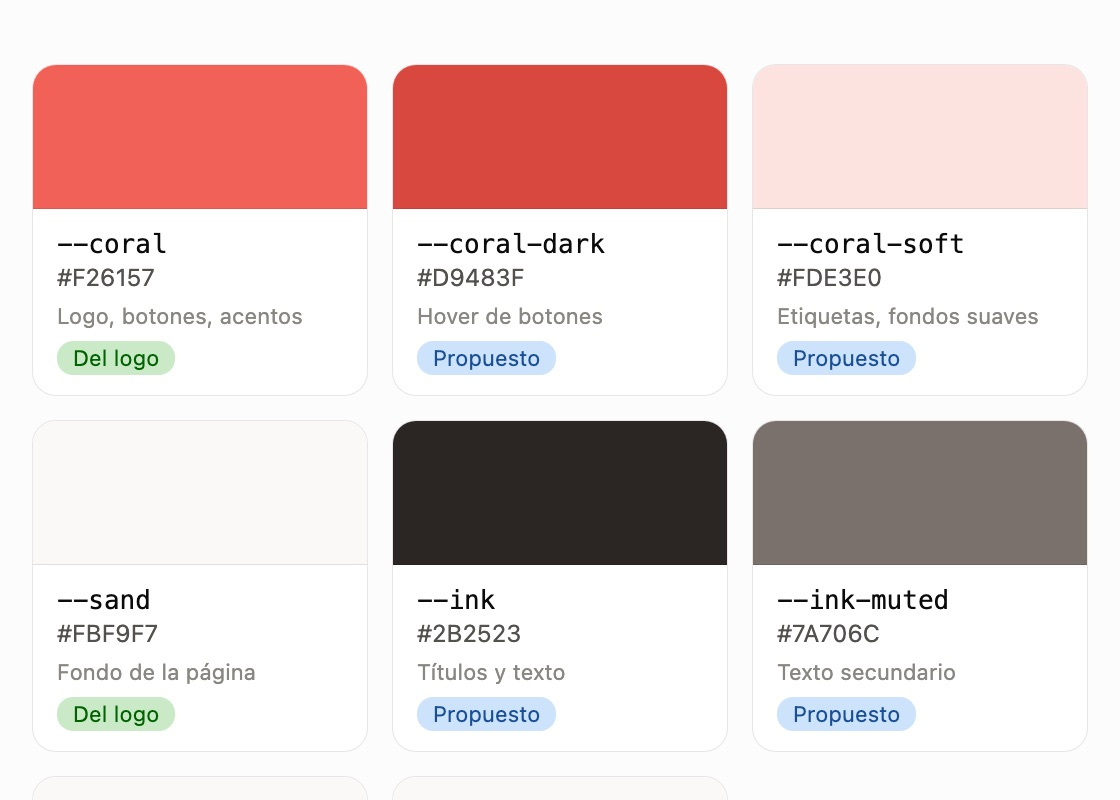
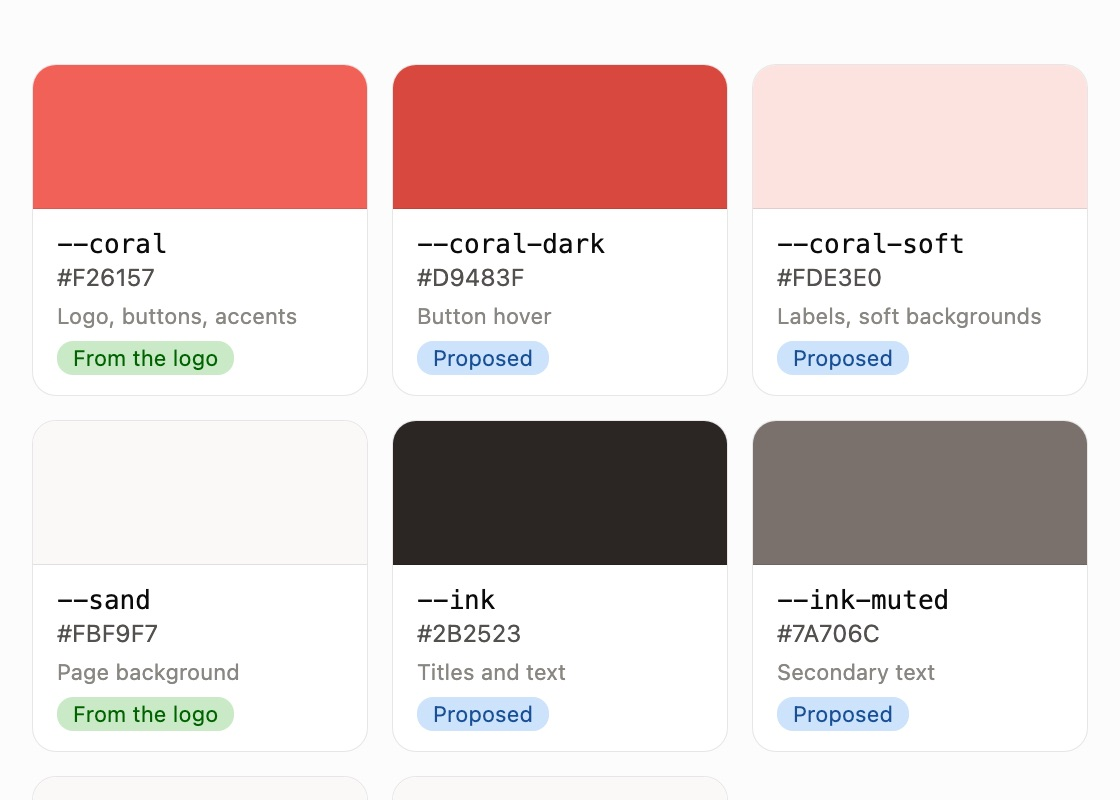
Translate all Spanish copy to English
- Page: meta description, html lang, aria-labels, alt texts, expertise cards,
  placeholder case study, metrics, journal intro and links, CTA button
- Images: regenerate the three component library sheets and the Stay Scout
  tokens thumbnail from translated sources (same dimensions)

diff --git a/index.html b/index.html
@@ -1,22 +1,22 @@
 <!DOCTYPE html>
-<html lang="es">
+<html lang="en">
 <head>
   <meta charset="UTF-8" />
   <meta name="viewport" content="width=device-width, initial-scale=1.0" />
-  <meta name="description" content="Portfolio de Carolina Conte — Product Designer & Design Engineer. Diseño de producto e ingeniería de interfaz." />
+  <meta name="description" content="Portfolio of Carolina Conte — Product Designer & Design Engineer. Product design and interface engineering." />
   <title>Carolina Conte — Product Designer & Design Engineer</title>
 
   <link rel="preconnect" href="https://fonts.googleapis.com">
   <link rel="preconnect" href="https://fonts.gstatic.com" crossorigin>
   <link href="https://fonts.googleapis.com/css2?family=Fraunces:ital,wght@0,400;0,500;0,600;1,400;1,500&family=Inter:wght@400;500;600;700&family=JetBrains+Mono:wght@400;500;600&display=swap" rel="stylesheet">
 
-  <link rel="stylesheet" href="styles.css?v=34" />
+  <link rel="stylesheet" href="styles.css?v=35" />
 </head>
 <body>
   <header class="site-header">
     <a class="brand" href="#home">CAROLINA<span>.</span>CONTE</a>
 
-    <button class="menu-toggle" aria-label="Abrir menú" aria-expanded="false">
+    <button class="menu-toggle" aria-label="Open menu" aria-expanded="false">
       <span></span><span></span><span></span>
     </button>
 
@@ -43,7 +43,7 @@
         <div class="hero-scrim"></div>
       </div>
 
-      <button class="hero-play" type="button" aria-label="Reproducir mensaje de bienvenida">
+      <button class="hero-play" type="button" aria-label="Play welcome message">
         <span class="hero-play-icon">▶</span>
         <span class="hero-play-label">Play with sound</span>
       </button>
@@ -62,7 +62,7 @@
 
         <div class="hero-actions">
           <a class="button button-dark" href="#work">See what I've built</a>
-          <a class="button button-light" href="#contact">Trabajemos juntas</a>
+          <a class="button button-light" href="#contact">Let's work together</a>
         </div>
       </div>
 
@@ -100,7 +100,7 @@
           <a class="cv-link" href="assets/carolina-conte-cv.pdf" target="_blank" rel="noopener">Download CV ↓</a>
         </div>
         <div class="about-portrait">
-          <img src="assets/about-collage.png" alt="Carolina Conte — collage de estudio" />
+          <img src="assets/about-collage.png" alt="Carolina Conte — studio collage" />
         </div>
       </article>
 
@@ -111,19 +111,19 @@
         <div class="service-grid">
           <div class="service-card">
             <h3>Product Design</h3>
-            <p>UX research, wireframes, UI de alta fidelidad y sistemas de diseño escalables para producto digital.</p>
+            <p>UX research, wireframes, high-fidelity UI, and scalable design systems for digital products.</p>
           </div>
           <div class="service-card">
             <h3>Design Engineering</h3>
-            <p>Implementación de interfaces en código: componentes, animaciones y prototipos funcionales listos para producción.</p>
+            <p>Building interfaces in code: components, animations, and working prototypes ready for production.</p>
           </div>
           <div class="service-card">
             <h3>Brand Systems</h3>
-            <p>Identidad visual, dirección de arte y mensaje llevados a experiencias digitales coherentes.</p>
+            <p>Visual identity, art direction, and messaging carried into coherent digital experiences.</p>
           </div>
           <div class="service-card">
             <h3>AI-assisted Workflows</h3>
-            <p>Prototipado, investigación y desarrollo asistidos por IA para pasar de la idea a algo funcional más rápido.</p>
+            <p>Prototyping, research, and development assisted by AI to get from idea to something working faster.</p>
           </div>
         </div>
       </article>
@@ -289,7 +289,7 @@
           <p class="section-kicker">SELECTED WORK</p>
           <h2><span>Recent</span> PROJECTS</h2>
         </div>
-        <p>Proyectos de producto y sistemas de diseño — placeholders listos para reemplazar con casos reales.</p>
+        <p>Product and design system projects — placeholders ready to be replaced with real case studies.</p>
       </div>
 
       <div class="project-spotlight">
@@ -351,13 +351,13 @@
         <p class="section-kicker">CASE STUDY 01</p>
         <h2><span>Project</span> NAME</h2>
         <p>
-          Rediseño end-to-end de un producto digital: research, sistema de diseño,
-          prototipado de alta fidelidad e implementación del front-end en producción.
+          End-to-end redesign of a digital product: research, design system,
+          high-fidelity prototyping, and front-end implementation in production.
         </p>
 
         <div class="case-stats">
-          <div><strong>+40%</strong><span>conversión</span></div>
-          <div><strong>−60%</strong><span>tiempo de dev</span></div>
+          <div><strong>+40%</strong><span>conversion</span></div>
+          <div><strong>−60%</strong><span>dev time</span></div>
           <div><strong>98</strong><span>lighthouse score</span></div>
         </div>
       </div>
@@ -377,26 +377,26 @@
       </div>
 
       <div class="masonry">
-        <button class="tile tile-gallery" type="button" data-gallery="component-library" aria-haspopup="dialog" aria-label="Abrir component library">
+        <button class="tile tile-gallery" type="button" data-gallery="component-library" aria-haspopup="dialog" aria-label="Open component library">
           <img class="is-on" src="assets/ui/component-library-carolina-conte.png" alt="Carolina Conte portfolio component library" loading="lazy" />
           <img src="assets/ui/component-library-market-open-media.png" alt="Market Open Media component library" loading="lazy" />
           <img src="assets/ui/component-library-stay-scout.png" alt="Stay Scout component library" loading="lazy" />
           <span class="tile-label">component library</span>
         </button>
         <div class="tile">onboarding<br>flow</div>
-        <button class="tile tile-gallery tile-dashboard" type="button" data-gallery="dashboard-ui" aria-haspopup="dialog" aria-label="Abrir dashboard UI">
-          <img class="is-on" src="assets/ui/dashboard-ui-thumb.jpg" alt="Jarvis, dashboard de briefing diario" loading="lazy" />
+        <button class="tile tile-gallery tile-dashboard" type="button" data-gallery="dashboard-ui" aria-haspopup="dialog" aria-label="Open dashboard UI">
+          <img class="is-on" src="assets/ui/dashboard-ui-thumb.jpg" alt="Jarvis, daily briefing dashboard" loading="lazy" />
           <span class="tile-label">dashboard UI</span>
         </button>
-        <button class="tile tile-gallery tile-tokens" type="button" data-gallery="design-tokens" aria-haspopup="dialog" aria-label="Abrir design tokens">
-          <img class="is-on" src="assets/ui/design-tokens-carolina-thumb.jpg" alt="Carolina Conte design tokens: rampas de color paper, ink, ember y brand" loading="lazy" />
-          <img src="assets/ui/design-tokens-thumb.jpg" alt="Stay Scout design tokens: colores, tipografía y radio" loading="lazy" />
+        <button class="tile tile-gallery tile-tokens" type="button" data-gallery="design-tokens" aria-haspopup="dialog" aria-label="Open design tokens">
+          <img class="is-on" src="assets/ui/design-tokens-carolina-thumb.jpg" alt="Carolina Conte design tokens: paper, ink, ember, and brand color ramps" loading="lazy" />
+          <img src="assets/ui/design-tokens-thumb.jpg" alt="Stay Scout design tokens: colors, typography, and radius" loading="lazy" />
           <span class="tile-label">design tokens</span>
         </button>
         <div class="tile">mobile<br>navigation</div>
         <div class="tile">motion<br>study</div>
-        <button class="tile tile-gallery tile-landing" type="button" data-gallery="landing-page" aria-haspopup="dialog" aria-label="Abrir landing page">
-          <img class="is-on" src="assets/ui/landing-page-thumb.jpg" alt="Landing page de Market Open Media: Free 7-day ranking trial" loading="lazy" />
+        <button class="tile tile-gallery tile-landing" type="button" data-gallery="landing-page" aria-haspopup="dialog" aria-label="Open landing page">
+          <img class="is-on" src="assets/ui/landing-page-thumb.jpg" alt="Market Open Media landing page: Free 7-day ranking trial" loading="lazy" />
           <span class="tile-label">landing page</span>
         </button>
         <div class="tile tile-video">
@@ -447,12 +447,12 @@
       </div>
 
       <div class="metric-grid">
-        <div><strong>20+</strong><span>proyectos entregados</span></div>
-        <div><strong>15+</strong><span>clientes</span></div>
-        <div><strong>5+</strong><span>años de experiencia</span></div>
-        <div><strong>98%</strong><span>satisfacción de cliente</span></div>
+        <div><strong>20+</strong><span>projects delivered</span></div>
+        <div><strong>15+</strong><span>clients</span></div>
+        <div><strong>5+</strong><span>years of experience</span></div>
+        <div><strong>98%</strong><span>client satisfaction</span></div>
         <div><strong>10+</strong><span>design systems</span></div>
-        <div><strong>90%</strong><span>clientes recurrentes</span></div>
+        <div><strong>90%</strong><span>repeat clients</span></div>
       </div>
     </section>
 
@@ -462,7 +462,7 @@
           <p class="section-kicker">AI GROWTH JOURNAL</p>
           <h2><span>Research &</span><br>NOTES</h2>
         </div>
-        <p>Un journal donde documento qué funciona (y qué no) al usar IA en workflows reales de crecimiento y SEO.</p>
+        <p>A journal where I document what works (and what doesn't) when using AI in real growth and SEO workflows.</p>
       </div>
 
       <div class="journal-grid">
@@ -483,7 +483,7 @@
         </a>
       </div>
 
-      <a class="journal-link" href="https://aigrowthjournal.vercel.app" target="_blank" rel="noopener">Ver el journal completo →</a>
+      <a class="journal-link" href="https://aigrowthjournal.vercel.app" target="_blank" rel="noopener">View the full journal →</a>
     </section>
 
     <section id="certifications" class="certifications shell">
@@ -551,7 +551,7 @@
         <p class="section-kicker" id="brand-modal-kicker">BRAND WORK</p>
         <h3 id="brand-modal-title"></h3>
       </div>
-      <button class="brand-modal-close" type="button" aria-label="Cerrar">Close ✕</button>
+      <button class="brand-modal-close" type="button" aria-label="Close">Close ✕</button>
     </div>
     <div class="brand-modal-body" id="brand-modal-body"></div>
   </dialog>
